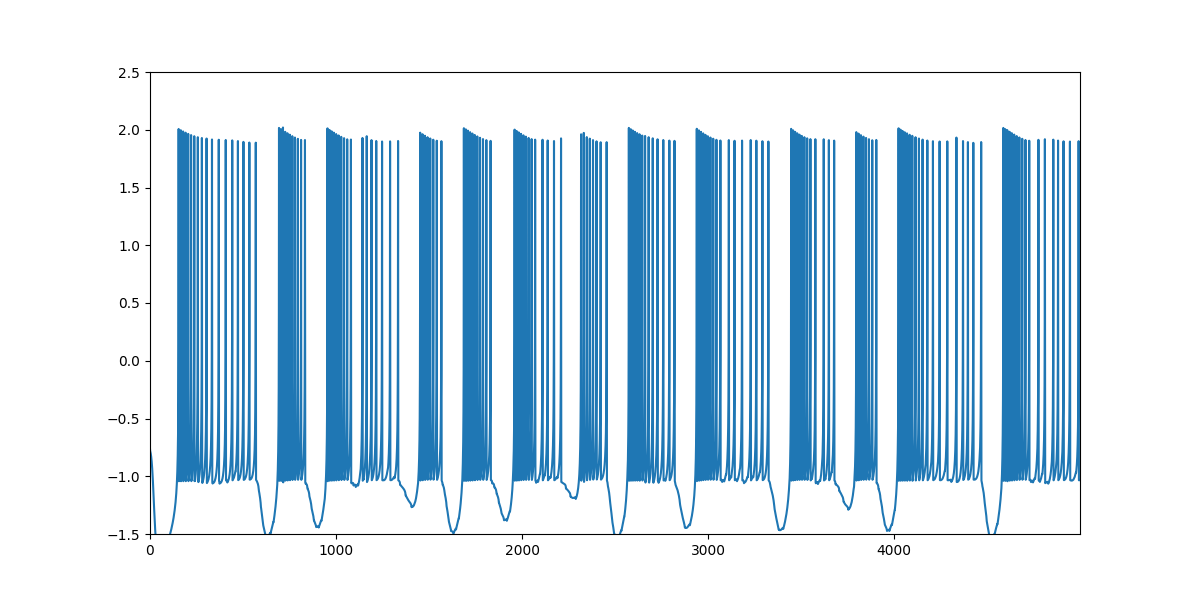
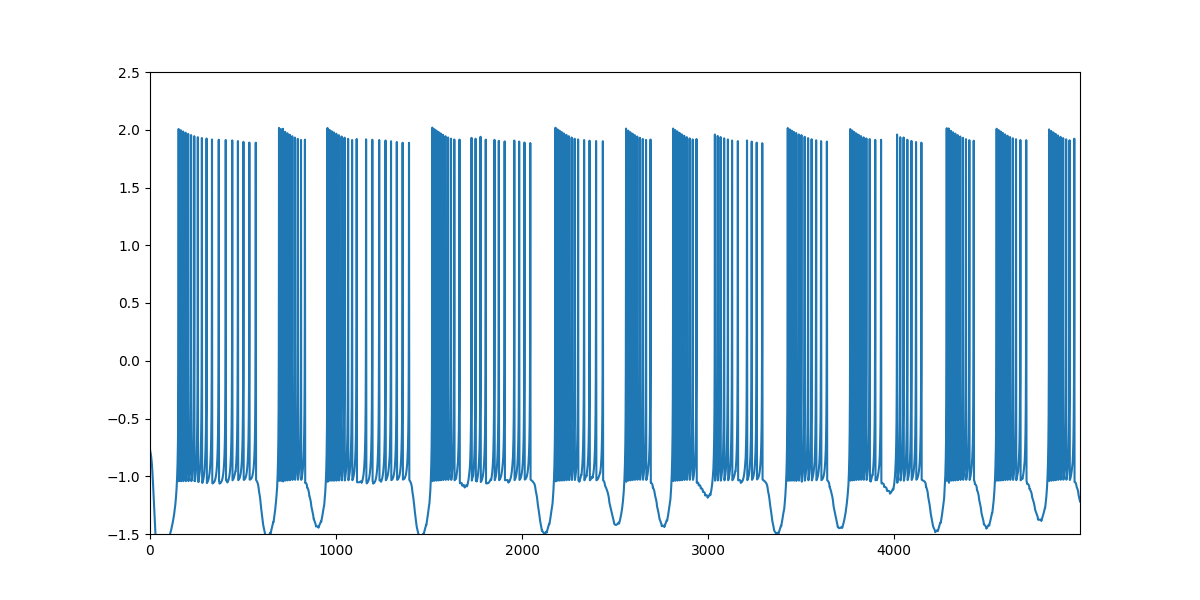
x preserved before calculation

Changed region(s): [[0.2775, 0.21, 0.925, 0.9], [0.8633, 0.84, 0.8942, 0.87]]

diff --git a/src/cpp/main_syn_hr_cpp.cpp b/src/cpp/main_syn_hr_cpp.cpp
@@ -28,11 +28,11 @@ int main()
     HindmarshRose *regular_stationary = new HindmarshRose(0, 0.001, "./data/executions_HR_syn/cpp/HR_syn_regular_neuron1_cpp.csv",
                                                           ELEMENTS_HR, -1.3, 3.0, M_VAL, 4.0);
 
-    HindmarshRose *regular_stationary2 = new HindmarshRose(0, 0.001, "./data/executions_HR_syn/cpp/HR_syn_regular_neuron2_cpp.csv",
-                                                           ELEMENTS_HR, -1.3, 3.0, M_VAL, 4.0);
+    HindmarshRose *chaotic_stationary = new HindmarshRose(0, 0.001, "./data/executions_HR_syn/cpp/HR_syn_regular_neuron2_cpp.csv",
+                                                           ELEMENTS_HR, -1.3, 3.281, M_VAL, 4.0);
 
     regular_stationary->objective_loop(5000);
-    regular_stationary2->objective_loop(5000);
+    chaotic_stationary->objective_loop(5000);
 
     HindmarshRoseFastSyn *regular_model = new HindmarshRoseFastSyn(0, 0.001, "./data/executions_HR_syn/cpp/HR_syn_regular_neuron1_cpp.csv",
                                                                    ELEMENTS_HR, regular_stationary->x, regular_stationary->y, regular_stationary->z,
@@ -43,11 +43,11 @@ int main()
                                                                     3.0, M_VAL, 4.0, gsync2, Sfast, Esyn, Vfast);
 
     HindmarshRoseFastSyn *chaotic_model = new HindmarshRoseFastSyn(0, 0.001, "./data/executions_HR_syn/cpp/HR_syn_chaotic_neuron1_cpp.csv",
-                                                                   ELEMENTS_HR, regular_stationary->x, regular_stationary->y, regular_stationary->z,
+                                                                   ELEMENTS_HR, chaotic_stationary->x, chaotic_stationary->y, chaotic_stationary->z,
                                                                    3.281, M_VAL, 4.0, gsync1, Sfast, Esyn, Vfast);
 
     HindmarshRoseFastSyn *chaotic_model2 = new HindmarshRoseFastSyn(0, 0.001, "./data/executions_HR_syn/cpp/HR_syn_chaotic_neuron2_cpp.csv",
-                                                                    ELEMENTS_HR, regular_stationary->x, regular_stationary->y, regular_stationary->z,
+                                                                    ELEMENTS_HR, chaotic_stationary->x, chaotic_stationary->y, chaotic_stationary->z,
                                                                     3.281, M_VAL, 4.0, gsync2, Sfast, Esyn, Vfast);
 
     regular_model->allocate_array(0, first_loop);
@@ -132,7 +132,7 @@ int main()
     std::chrono::steady_clock::time_point end_writing_operations = std::chrono::steady_clock::now();
 
     regular_stationary->free();
-    regular_stationary2->free();
+    chaotic_stationary->free();
 
     regular_model->free();
     regular_model2->free();

diff --git a/src/c/main_syn_hr_c.c b/src/c/main_syn_hr_c.c
@@ -33,6 +33,7 @@ int main()
     float Sfast = 0.44, Esyn = -1.92, Vfast = -1.66;
     clock_t clock(void);
     FILE *fptr;
+    float aux = 0;
 
     start = (double)clock();
     start = start / CLOCKS_PER_SEC;
@@ -60,8 +61,9 @@ int main()
 
     while ((first_loop - regular_values->hr_model->model->time) > DECIMAL_PRECISION)
     {
+        aux = regular_values->hr_model->x;
         hindmarshrosefastsyn_calculate(regular_values, i, regular_values2->hr_model->x);
-        hindmarshrosefastsyn_calculate(regular_values2, i, regular_values->hr_model->x);
+        hindmarshrosefastsyn_calculate(regular_values2, i, aux);
         i++;
     }
 
@@ -87,8 +89,9 @@ int main()
     while ((first_loop - chaotic_values->hr_model->model->time) > DECIMAL_PRECISION)
     {
 
+        aux = chaotic_values->hr_model->x;
         hindmarshrosefastsyn_calculate(chaotic_values, i, chaotic_values2->hr_model->x);
-        hindmarshrosefastsyn_calculate(chaotic_values2, i, chaotic_values->hr_model->x);
+        hindmarshrosefastsyn_calculate(chaotic_values2, i, aux);
         i++;
     }
 
@@ -125,11 +128,13 @@ int main()
     while ((second_loop - regular_values_continue->hr_model->model->time) > DECIMAL_PRECISION)
     {
 
+        aux = regular_values_continue->hr_model->x;
         hindmarshrosefastsyn_calculate(regular_values_continue, i, regular_values2_continue->hr_model->x);
-        hindmarshrosefastsyn_calculate(regular_values2_continue, i, regular_values_continue->hr_model->x);
+        hindmarshrosefastsyn_calculate(regular_values2_continue, i, aux);
 
+        aux = chaotic_values_continue->hr_model->x;
         hindmarshrosefastsyn_calculate(chaotic_values_continue, i, chaotic_values2_continue->hr_model->x);
-        hindmarshrosefastsyn_calculate(chaotic_values2_continue, i, chaotic_values_continue->hr_model->x);
+        hindmarshrosefastsyn_calculate(chaotic_values2_continue, i, aux);
         i++;
     }
 
